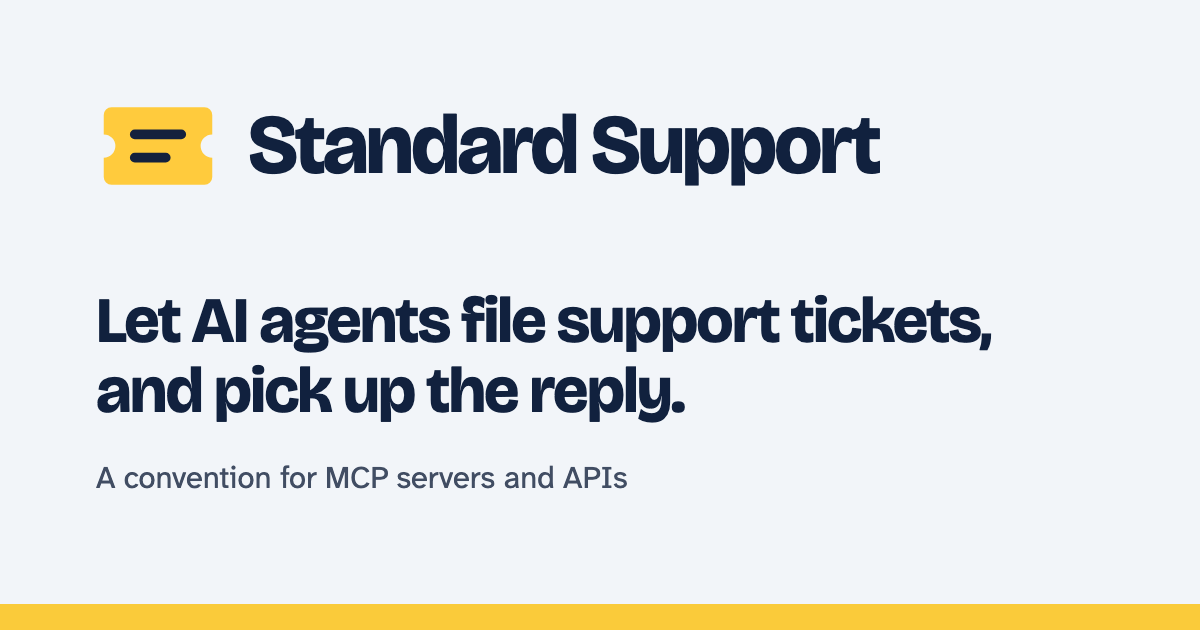
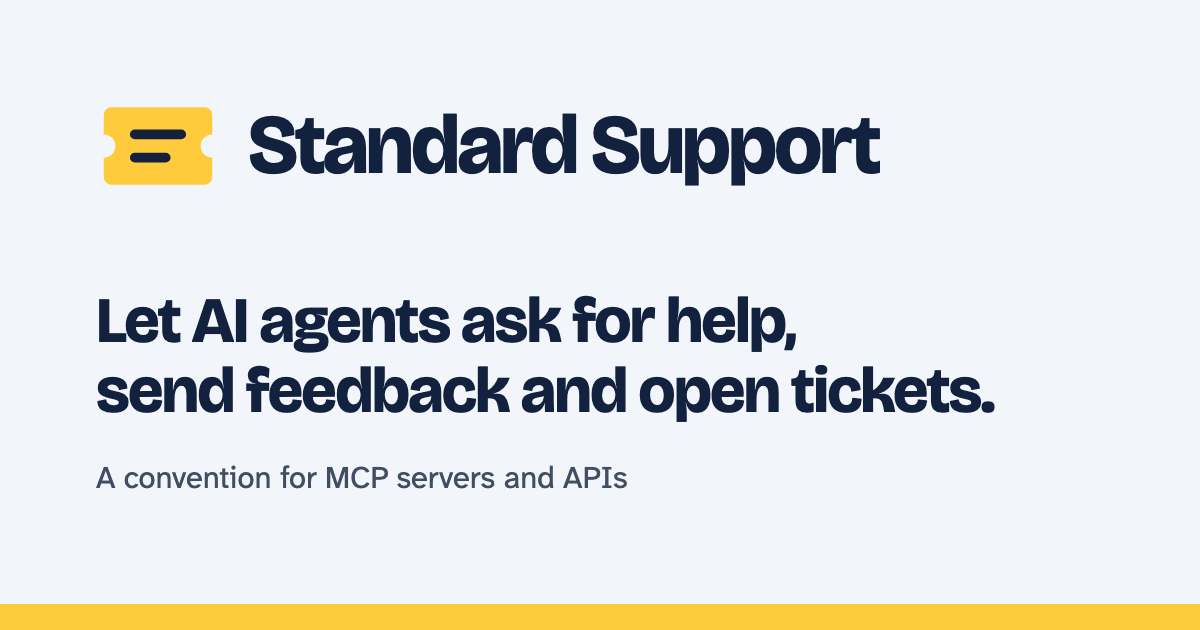
The link preview image says ask for help, send feedback and open tickets

Changed region(s): [[0.0617, 0.4524, 0.8325, 0.6937]]

diff --git a/site/src/index.html b/site/src/index.html
@@ -16,7 +16,7 @@
     <meta property="og:image:height" content="630" />
     <meta
       property="og:image:alt"
-      content="Standard Support: let AI agents file support tickets, and pick up the reply. A convention for MCP servers and APIs."
+      content="Standard Support: let AI agents ask for help, send feedback and open tickets. A convention for MCP servers and APIs."
     />
     <meta name="twitter:card" content="summary_large_image" />
     <meta name="twitter:creator" content="@ndbroadbent" />

diff --git a/site/og/og.html b/site/og/og.html
@@ -79,7 +79,7 @@
       </svg>
       Standard Support
     </div>
-    <h1>Let AI agents file support tickets,<br />and pick up the reply.</h1>
+    <h1>Let AI agents ask for help,<br />send feedback and open tickets.</h1>
     <p>A convention for MCP servers and APIs</p>
     <div class="bar"></div>
   </body>
